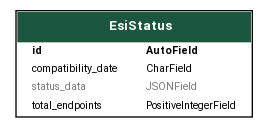
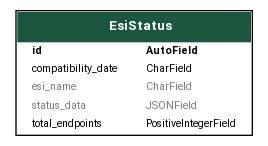
Merge pull request #298 from ppfeufer/release/v4.1.0
[RELEASE] v4.1.0

Pull request: [RELEASE] v4.1.0
## [4.1.0] - 2026-07-17

> [!IMPORTANT]
> 
> **This version needs Alliance Auth v5.2.0 or newer!**
> 
> Please make sure to update your Alliance Auth instance **before** you install this
> version; otherwise, an update to Alliance Auth will be pulled in unsupervised.

### Added

- ESI Name

### Changed

- Migrated to Alliance Auth proxy models for `Permission`, `User` and `Group`

diff --git a/esistatus/__init__.py b/esistatus/__init__.py
@@ -8,7 +8,7 @@ import requests
 # Django
 from django.utils.translation import gettext_lazy as _
 
-__version__ = "4.0.1"
+__version__ = "4.1.0"
 __title__ = "ESI Status"
 __title_translated__ = _("ESI Status")
 

diff --git a/README.md b/README.md
@@ -89,7 +89,7 @@ Make sure you're in the virtual environment (venv) of your Alliance Auth install
 Then install the latest version:
 
 ```shell
-pip install aa-esi-status==4.0.1
+pip install aa-esi-status==4.1.0
 ```
 
 #### Step 2: Update Your AA Settings<a name="step-2-update-your-aa-settings"></a>
@@ -132,7 +132,7 @@ Restart your supervisor services for AA.
 Add the app to your `conf/requirements.txt`:
 
 ```text
-aa-esi-status==4.0.1
+aa-esi-status==4.1.0
 ```
 
 #### Step 2: Update Your AA Settings<a name="step-2-update-your-aa-settings-1"></a>
@@ -211,7 +211,7 @@ Then run the following commands from your AA project directory (the one that
 contains `manage.py`).
 
 ```shell
-pip install aa-esi-status==4.0.1
+pip install aa-esi-status==4.1.0
 python manage.py collectstatic
 python manage.py migrate
 ```
@@ -224,7 +224,7 @@ To update your existing installation of AA ESI Status, all you need to do is to
 update the respective line in your `conf/requirements.txt` file to the latest version.
 
 ```text
-aa-esi-status==4.0.1
+aa-esi-status==4.1.0
 ```
 
 Now rebuild your containers:

diff --git a/CHANGELOG.md b/CHANGELOG.md
@@ -37,6 +37,8 @@ Section Order:
 
 <!-- Your changes go here -->
 
+## [4.1.0] - 2026-07-17
+
 > [!IMPORTANT]
 >
 > **This version needs Alliance Auth v5.2.0 or newer!**
@@ -794,7 +796,8 @@ CELERYBEAT_SCHEDULE["ESI Status :: Update"] = {
 [3.4.0]: https://github.com/ppfeufer/aa-esi-status/compare/v3.3.5...v3.4.0 "v3.4.0"
 [4.0.0]: https://github.com/ppfeufer/aa-esi-status/compare/v3.4.0...v4.0.0 "v4.0.0"
 [4.0.1]: https://github.com/ppfeufer/aa-esi-status/compare/v4.0.0...v4.0.1 "v4.0.1"
-[in development]: https://github.com/ppfeufer/aa-esi-status/compare/v4.0.1...HEAD "In Development"
+[4.1.0]: https://github.com/ppfeufer/aa-esi-status/compare/v4.0.1...v4.1.0 "v4.1.0"
+[in development]: https://github.com/ppfeufer/aa-esi-status/compare/v4.1.0...HEAD "In Development"
 [keep a changelog]: http://keepachangelog.com/ "Keep a Changelog"
 [readme]: https://github.com/ppfeufer/aa-esi-status/blob/main/README.md "README.md"
 [semantic versioning]: http://semver.org/ "Semantic Versioning"